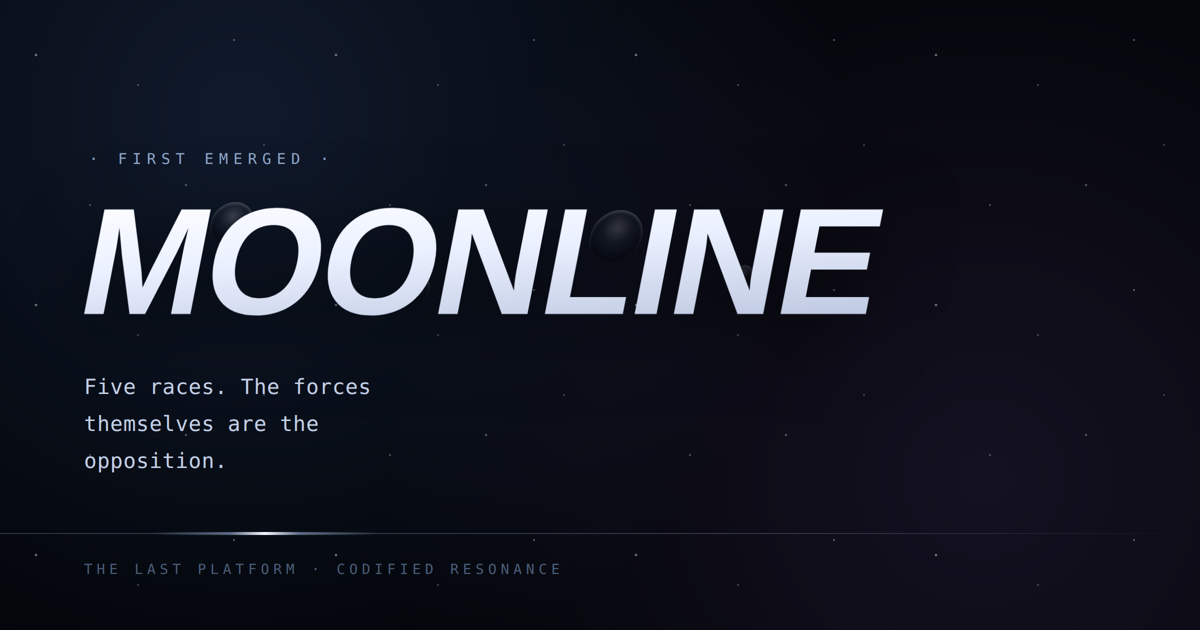
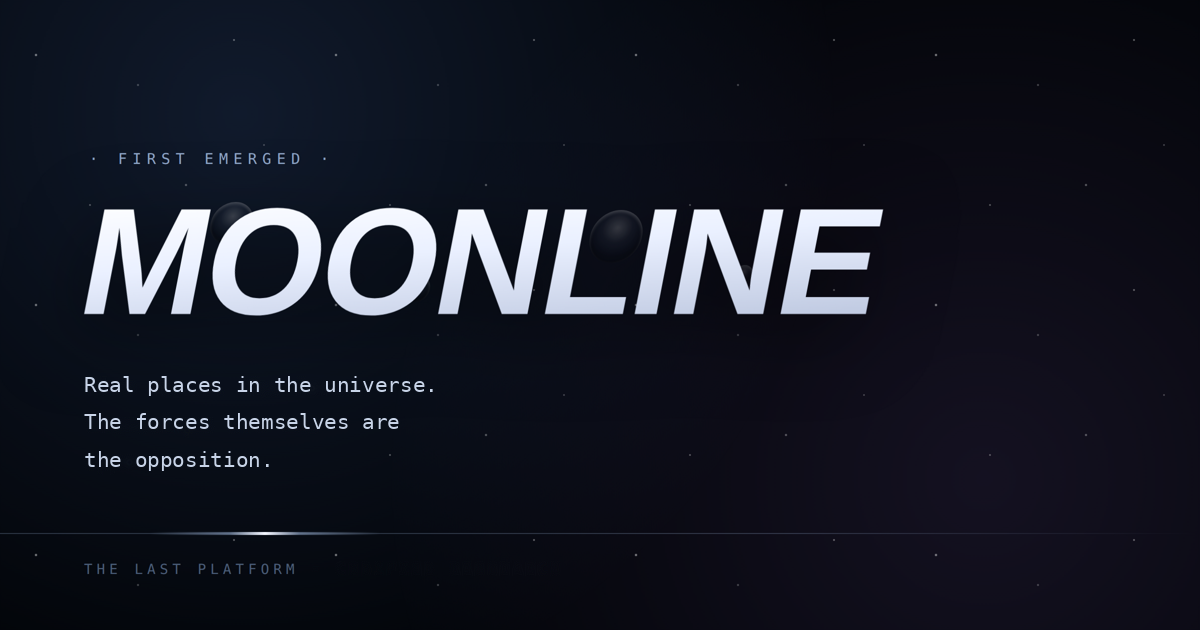
MOONLINE share preview: no count of races, from The Last Platform
The preview said five races and five crossings; there are more now. Text and
image name no number. The image's footer names The Last Platform alone, and it
is served under a new name so cached previews are fetched fresh.

Claude-Session: https://claude.ai/code/session_01LnSESfLesLTqg8ZgW8Y8vS

diff --git a/public/moonline/index.html b/public/moonline/index.html
@@ -4,13 +4,16 @@
 <meta charset="utf-8">
 <meta name="viewport" content="width=device-width,initial-scale=1">
 <title>MOONLINE · The Last Platform</title>
-<meta name="description" content="Five crossings. A re-feel of the forces at play in the universe, and the science is the antagonist.">
+<meta name="description" content="Real places in the universe, raced. The forces themselves are the opposition.">
 <link rel="canonical" href="https://thelastplatform.com/moonline/">
 <meta property="og:type" content="website">
 <meta property="og:title" content="MOONLINE">
-<meta property="og:description" content="Five crossings, and the voyage beyond them. The science is the antagonist.">
+<meta property="og:description" content="Real places in the universe, raced. The forces themselves are the opposition.">
 <meta property="og:url" content="https://thelastplatform.com/moonline/">
-<meta property="og:image" content="https://thelastplatform.com/moonline/og-moonline.png">
+<meta property="og:image" content="https://thelastplatform.com/moonline/og-moonline-2.png">
+<meta property="og:image:width" content="1200">
+<meta property="og:image:height" content="630">
+<meta property="og:site_name" content="The Last Platform">
 <meta name="twitter:card" content="summary_large_image">
 <meta name="theme-color" content="#020408">
 <style>html,body{margin:0;background:#020408}</style>

diff --git a/tools/import-worlds.py b/tools/import-worlds.py
@@ -103,13 +103,16 @@ write(os.path.join(ml, "index.html"), """<!doctype html>
 <meta charset="utf-8">
 <meta name="viewport" content="width=device-width,initial-scale=1">
 <title>MOONLINE · The Last Platform</title>
-<meta name="description" content="Five crossings. A re-feel of the forces at play in the universe, and the science is the antagonist.">
+<meta name="description" content="Real places in the universe, raced. The forces themselves are the opposition.">
 <link rel="canonical" href="%(s)s/moonline/">
 <meta property="og:type" content="website">
 <meta property="og:title" content="MOONLINE">
-<meta property="og:description" content="Five crossings, and the voyage beyond them. The science is the antagonist.">
+<meta property="og:description" content="Real places in the universe, raced. The forces themselves are the opposition.">
 <meta property="og:url" content="%(s)s/moonline/">
-<meta property="og:image" content="%(s)s/moonline/og-moonline.png">
+<meta property="og:image" content="%(s)s/moonline/og-moonline-2.png">
+<meta property="og:image:width" content="1200">
+<meta property="og:image:height" content="630">
+<meta property="og:site_name" content="The Last Platform">
 <meta name="twitter:card" content="summary_large_image">
 <meta name="theme-color" content="#020408">
 <style>html,body{margin:0;background:#020408}</style>
